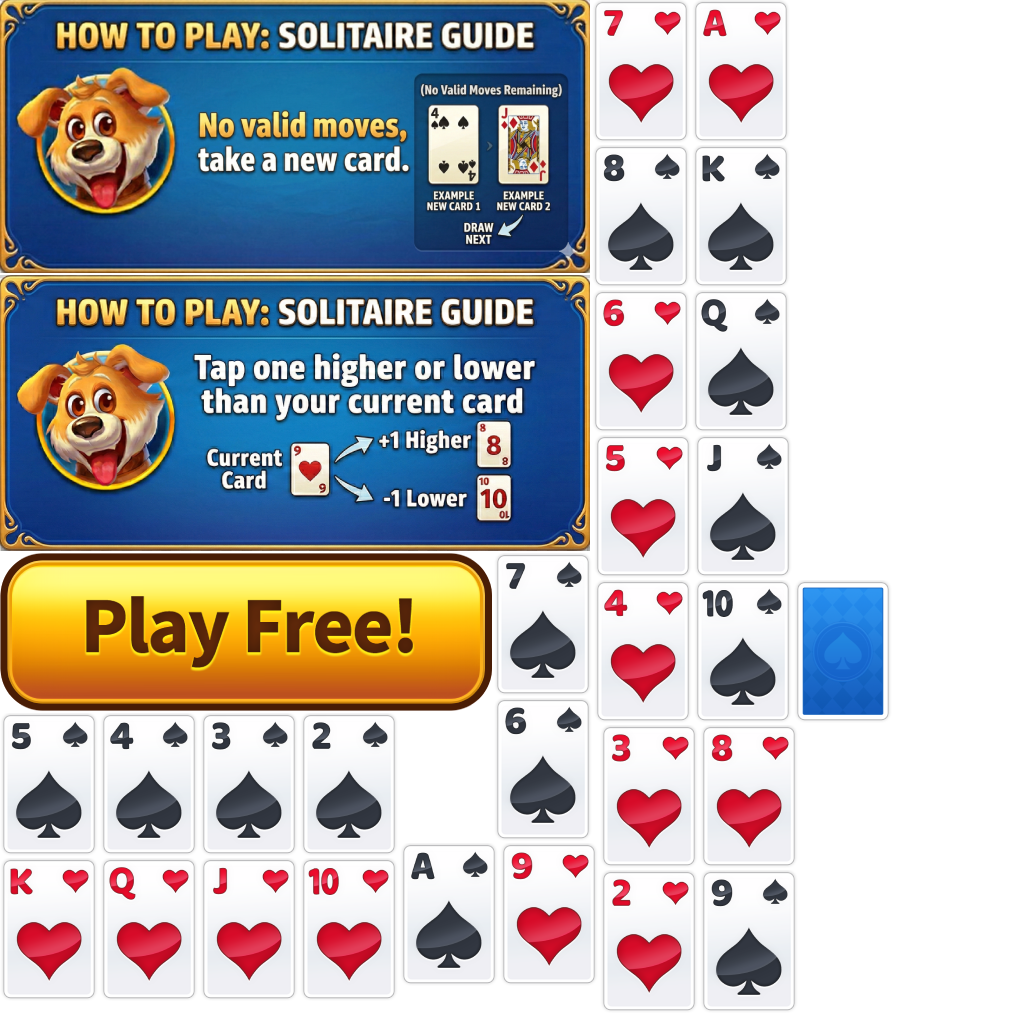
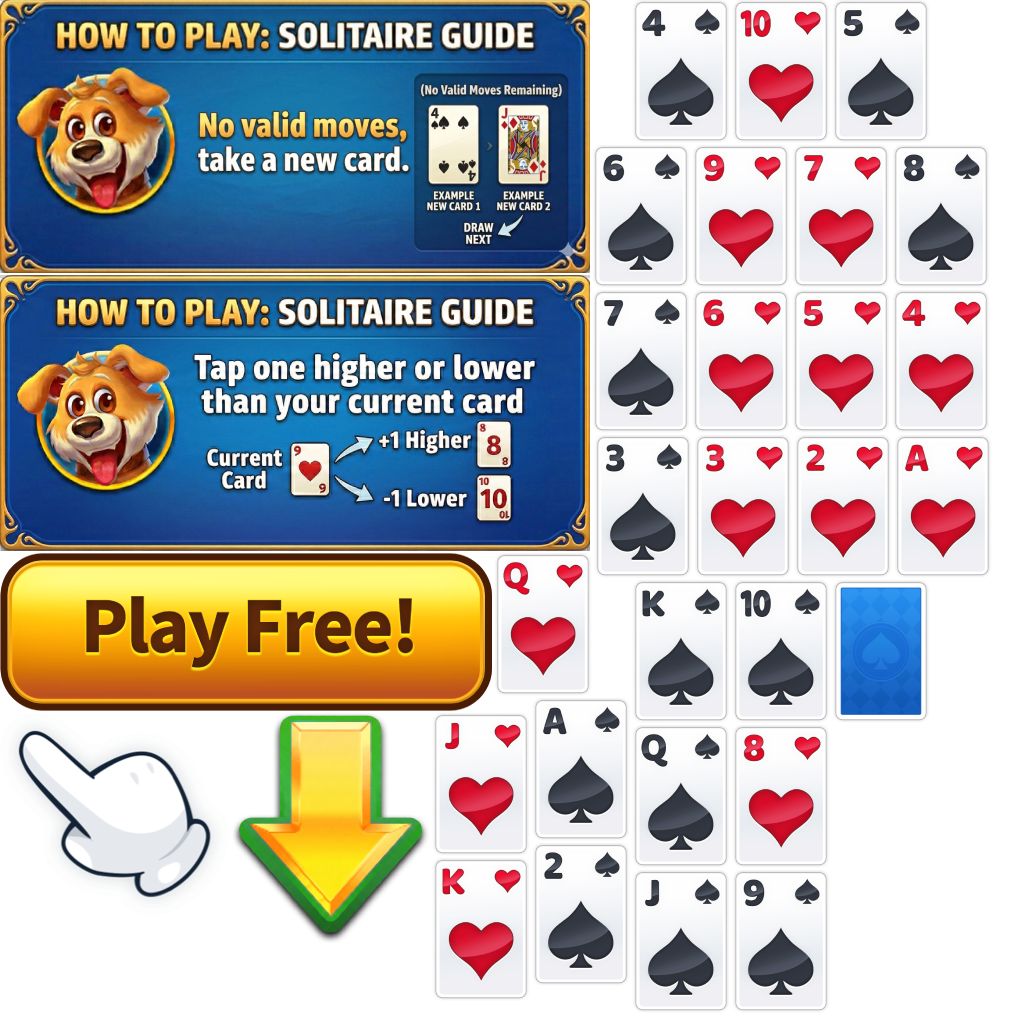
提交

diff --git a/assets/src/ui/GameWindow.ts b/assets/src/ui/GameWindow.ts
@@ -18,12 +18,16 @@ export class GameWindow extends BaseWindow {
 	private handValue: number = 0;
 	private _titleJitterTween: { stop: () => void } | null = null;
 	private _btnDownloadScaleTween: { stop: () => void } | null = null;
+	private _startCardScaleTween: { stop: () => void } | null = null;
+	private _imgFingerSwayTween: { stop: () => void } | null = null;
 	private _isFirstEliminate = true;
 	/** 连续 shuffle 导致僵局的次数，达到 2 时下一次 shuffle 必定可消除 */
 	private _consecutiveShuffleDeadlockCount = 0;
 	/** 第一次点击时开始计时 */
 	private _gameStartTime: number | null = null;
 	private _gameSuccess = false;
+	/** 有牌可消除时每 5 秒提示晃动的定时器，正确消除或 shuffle 后清除 */
+	private _hintShakeTimerId: ReturnType<typeof setTimeout> | null = null;
 	protected onInit(): void {
 			// 创建 comp_Game 实例并设置为窗口内容
 			this.compGame = UI_comp_Game.createInstance();
@@ -34,12 +38,15 @@ export class GameWindow extends BaseWindow {
 
 	/** 用于 window resize 的回调绑定，便于 removeEventListener */
 	private _boundOnWindowResize = () => this.onWindowResize();
+	/** 用于开始界面的全屏点击 */
+	private _boundOnStartScreenClick = () => this.onStartScreenClick();
 
 	protected onShown(): void {
 		super.onShown();
-		this.showCard();
-		this.compGame.m_btnDownload.on(fgui.Event.CLICK, this.onBtnDownloadClick, this);
-
+		this.compGame.m_imgTitle.visible = false;
+		this.compGame.m_btnDownload.visible = false;
+		this.compGame.m_compArrow.m_move.stop();
+		this.compGame.m_compArrow.visible = false;
 		this.updateBgVisibility();
 		if (!sys.isMobile) {
 			// Web 端 screen.on('window-resize') 有 bug 只触发一次，改用原生 resize
@@ -49,10 +56,64 @@ export class GameWindow extends BaseWindow {
 				screen.on('window-resize', this.onWindowResize, this);
 			}
 		}
+
+		this.compGame.m_comStart.visible = true;
+		this.compGame.m_comStart.m_startCard.m_typeLoader.url =
+			fgui.UIPackage.getItemURL("Package1", "heart_1");
+		this.playStartCardScaleLoop();
+		this.playImgFingerSwayLoop();
+		this.contentPane.on(fgui.Event.CLICK, this._boundOnStartScreenClick, this);
 	}
+
+	/** 开始界面点击：停止手指动画并隐藏、m_comStart 飞出、然后 startGame */
+	private onStartScreenClick() {
+		this.contentPane.off(fgui.Event.CLICK, this._boundOnStartScreenClick, this);
+
+		this._startCardScaleTween?.stop();
+		this._startCardScaleTween = null;
+		this._imgFingerSwayTween?.stop();
+		this._imgFingerSwayTween = null;
+		this.compGame.m_comStart.m_imgFinger.visible = false;
+
+		const comStart = this.compGame.m_comStart;
+		const startY = comStart.y;
+		const endY = -comStart.height - 150;
+
+		const state = { y: startY };
+		tween(state)
+			.to(0.3, { y: endY }, {
+				easing: "backIn",
+				onUpdate: () => {
+					comStart.y = state.y;
+				}
+			})
+			.call(() => this.startGame())
+			.start();
+	}
+
+	private startGame() {
+		this._startCardScaleTween?.stop();
+		this._startCardScaleTween = null;
+		this._imgFingerSwayTween?.stop();
+		this._imgFingerSwayTween = null;
+		this.contentPane.off(fgui.Event.CLICK, this._boundOnStartScreenClick, this);
+		this.compGame.m_comStart.visible = false;
+		this.compGame.m_comStart.m_imgFinger.visible = true;
+		this.compGame.m_comStart.y = 0;
+		this.showCard();
+		this.compGame.m_btnDownload.on(fgui.Event.CLICK, this.onBtnDownloadClick, this);
+	}
+
+
 
 	protected onHide(): void {
 		super.onHide();
+		this.stopHintShakeTimer();
+		this.contentPane.off(fgui.Event.CLICK, this._boundOnStartScreenClick, this);
+		this._startCardScaleTween?.stop();
+		this._startCardScaleTween = null;
+		this._imgFingerSwayTween?.stop();
+		this._imgFingerSwayTween = null;
 		if (!sys.isMobile) {
 			if (sys.isBrowser && typeof window !== 'undefined') {
 				window.removeEventListener('resize', this._boundOnWindowResize);
@@ -96,8 +157,6 @@ export class GameWindow extends BaseWindow {
 		this.cardMap = new Map<string, CardView>();
 		this.initHandCards();
 		this.initShuffleCards();
-		this.compGame.m_imgTitle.visible = false;
-		this.compGame.m_btnDownload.visible = false;
 
 		let index = 0;
 		for (const key in cardCfg) {
@@ -120,6 +179,7 @@ export class GameWindow extends BaseWindow {
 		this.playTitleSlideIn(cardAnimEndTime);
 		tween({}).delay(cardAnimEndTime).call(() => {
 			this.contentPane.touchable = true;
+			this.startHintShakeTimerIfNeeded();
 		}).start();
 	}
 
@@ -168,6 +228,7 @@ export class GameWindow extends BaseWindow {
 	/** 播放卡牌消除动画：抛物线飞到 handCard，结束后隐藏并刷新布局 */
 	private playCardEliminate(cardView: CardView) {
 		this.contentPane.touchable = false;
+		this.stopHintShakeTimer();
 
 		if (this._isFirstEliminate) {
 			this._isFirstEliminate = false;
@@ -208,9 +269,11 @@ export class GameWindow extends BaseWindow {
 				// 检查是否都不能消除，若僵局则切换到第二个引导并播放滑入+抖动动画（若第二个引导已居中则无视）
 				if (this.isNoEliminableCard() && this.compGame.m_ctrlGuide.selectedIndex !== 1) {
 					this.compGame.m_ctrlGuide.selectedIndex = 1;
+					this.showCompArrowAboveShuffle();
 					this.playTitleSlideIn(0);
 				}
 				this.contentPane.touchable = true;
+				this.startHintShakeTimerIfNeeded();
 			}
 		});
 	}
@@ -218,6 +281,8 @@ export class GameWindow extends BaseWindow {
 	/** 洗牌区 top 牌：翻面 + 平移到手牌，更新手牌数值 */
 	private playShuffleCardToHand(cardView: CardView) {
 		this.contentPane.touchable = false;
+		this.hideCompArrow();
+		this.stopHintShakeTimer();
 
 		const shuffleArea = this.compGame.m_shuffleArea;
 		const handCard = this.compGame.m_handCard;
@@ -263,13 +328,16 @@ export class GameWindow extends BaseWindow {
 			// 若僵局则切换到第二个引导（若第二个引导已居中则无视）
 			if (this.isNoEliminableCard() && this.compGame.m_ctrlGuide.selectedIndex !== 1) {
 				this.compGame.m_ctrlGuide.selectedIndex = 1;
+				this.showCompArrowAboveShuffle();
 				this.playTitleSlideIn(0);
 			}
 			// 第二个引导正在屏幕中间时，shuffle 后若查到有牌可消除，则移出引导
 			else if (this.compGame.m_ctrlGuide.selectedIndex === 1 && !this.isNoEliminableCard()) {
+				this.hideCompArrow();
 				this.playTitleSlideOut();
 			}
 			this.contentPane.touchable = true;
+			this.startHintShakeTimerIfNeeded();
 		});
 	}
 
@@ -360,8 +428,69 @@ export class GameWindow extends BaseWindow {
 			.call(() => {
 				this.compGame.m_ctrlGuide.selectedIndex = 0;
 				this.compGame.m_imgTitle.visible = false;
+				this.hideCompArrow();
 			})
 			.start();
+	}
+
+	/** 将 compArrow 定位到 shuffle 卡牌上方并显示、播放 move 动画（以最右边一张牌为标记位置） */
+	private showCompArrowAboveShuffle() {
+		if (this.shuffleCardViews.length === 0) return;
+		const arrow = this.compGame.m_compArrow;
+		const shuffleArea = this.compGame.m_shuffleArea;
+		const compGame = this.compGame;
+		const gap = 15;
+		const rightmostCard = this.shuffleCardViews[this.shuffleCardViews.length - 1];
+		const cardCenterX = rightmostCard.x;
+		const cardTopY = rightmostCard.y;
+		const global = shuffleArea.localToGlobal(cardCenterX, cardTopY);
+		const inComp = compGame.globalToLocal(global.x, global.y);
+		const arrowX = inComp.x - arrow.width / 2;
+		const arrowY = inComp.y - arrow.height - gap;
+		arrow.setPosition(arrowX, arrowY);
+		arrow.visible = true;
+		arrow.m_move.play(null, -1, 0);
+	}
+
+	/** 隐藏 compArrow 并停止 move 动画 */
+	private hideCompArrow() {
+		this.compGame.m_compArrow.m_move.stop();
+		this.compGame.m_compArrow.visible = false;
+	}
+
+	/** 停止 5 秒提示晃动计时 */
+	private stopHintShakeTimer() {
+		if (this._hintShakeTimerId != null) {
+			clearTimeout(this._hintShakeTimerId);
+			this._hintShakeTimerId = null;
+		}
+	}
+
+	/** 若有可消除牌则启动 5 秒提示计时，到点后晃动一张可消除牌（不播 error 音效），并每 5 秒重复直到正确消除或 shuffle */
+	private startHintShakeTimerIfNeeded() {
+		this.stopHintShakeTimer();
+		if (this._gameSuccess || this.isNoEliminableCard()) return;
+		this._hintShakeTimerId = setTimeout(() => this.onHintShakeTick(), 5000);
+	}
+
+	private onHintShakeTick() {
+		this._hintShakeTimerId = null;
+		if (this._gameSuccess || this.isNoEliminableCard()) return;
+		const card = this.getOneEliminableCard();
+		if (card) {
+			card.playShake();
+		}
+		this._hintShakeTimerId = setTimeout(() => this.onHintShakeTick(), 5000);
+	}
+
+	/** 任选一张当前可消除的主牌（正面、未消除），用于提示晃动 */
+	private getOneEliminableCard(): CardView | null {
+		for (const [, cardView] of this.cardMap) {
+			if (cardView.isClear) continue;
+			if (cardView.m_ctrlSide.selectedIndex !== 0) continue;
+			if (this.canEliminate(cardView.value)) return cardView;
+		}
+		return null;
 	}
 
 	/**
@@ -399,6 +528,8 @@ export class GameWindow extends BaseWindow {
 		this._titleJitterTween = null;
 		this.compGame.m_imgTitle.visible = false;
 		this.compGame.m_ctrlGuide.selectedIndex = 0;
+		this.hideCompArrow();
+		this.stopHintShakeTimer();
 
 		this.playBtnDownloadSlideIn();
 		this.contentPane.touchable = true;
@@ -450,6 +581,58 @@ export class GameWindow extends BaseWindow {
 				onUpdate: () => {
 					btn.setScale(state.scale, state.scale);
 					btn.setPosition(centerX, baseY);
+				}
+			})
+			.union()
+			.repeatForever()
+			.start();
+	}
+
+	/** m_comStart 中 imgFinger 的循环旋转晃动效果（慢速） */
+	private playImgFingerSwayLoop() {
+		const finger = this.compGame.m_comStart.m_imgFinger;
+		const amplitude = 12;
+		const duration = 1.2;
+
+		const state = { rotation: -amplitude };
+		finger.rotation = -amplitude;
+		this._imgFingerSwayTween = tween(state)
+			.to(duration, { rotation: amplitude }, {
+				easing: "sineInOut",
+				onUpdate: () => {
+					finger.rotation = state.rotation;
+				}
+			})
+			.to(duration, { rotation: -amplitude }, {
+				easing: "sineInOut",
+				onUpdate: () => {
+					finger.rotation = state.rotation;
+				}
+			})
+			.union()
+			.repeatForever()
+			.start();
+	}
+
+	/** m_comStart 中 startCard 的循环放大缩小动画 */
+	private playStartCardScaleLoop() {
+		const card = this.compGame.m_comStart.m_startCard;
+		const minScale = 1;
+		const maxScale = 1.15;
+		const duration = 0.5;
+
+		const state = { scale: minScale };
+		this._startCardScaleTween = tween(state)
+			.to(duration, { scale: maxScale }, {
+				easing: "sineInOut",
+				onUpdate: () => {
+					card.setScale(state.scale, state.scale);
+				}
+			})
+			.to(duration, { scale: minScale }, {
+				easing: "sineInOut",
+				onUpdate: () => {
+					card.setScale(state.scale, state.scale);
 				}
 			})
 			.union()

diff --git a/assets/src/fgui/Package1/UI_comp_Game.ts b/assets/src/fgui/Package1/UI_comp_Game.ts
@@ -3,6 +3,8 @@
 import * as fgui from "fairygui-cc";
 import UI_comp_Card from "./UI_comp_Card";
 import UI_comp_Shuffle from "./UI_comp_Shuffle";
+import UI_comp_Start from "./UI_comp_Start";
+import UI_comp_Arrow from "./UI_comp_Arrow";
 
 export default class UI_comp_Game extends fgui.GComponent {
 
@@ -15,6 +17,8 @@ export default class UI_comp_Game extends fgui.GComponent {
 	public m_shuffleArea:UI_comp_Shuffle;
 	public m_imgTitle:fgui.GLoader;
 	public m_btnDownload:fgui.GLoader;
+	public m_comStart:UI_comp_Start;
+	public m_compArrow:UI_comp_Arrow;
 	public static URL:string = "ui://1yx7aoelt01j2";
 
 	public static createInstance():UI_comp_Game {
@@ -31,5 +35,7 @@ export default class UI_comp_Game extends fgui.GComponent {
 		this.m_shuffleArea = <UI_comp_Shuffle>(this.getChild("shuffleArea"));
 		this.m_imgTitle = <fgui.GLoader>(this.getChild("imgTitle"));
 		this.m_btnDownload = <fgui.GLoader>(this.getChild("btnDownload"));
+		this.m_comStart = <UI_comp_Start>(this.getChild("comStart"));
+		this.m_compArrow = <UI_comp_Arrow>(this.getChild("compArrow"));
 	}
 }

diff --git a/assets/src/fgui/Package1/Package1Binder.ts b/assets/src/fgui/Package1/Package1Binder.ts
@@ -1,13 +1,17 @@
 /** This is an automatically generated class by FairyGUI. Please do not modify it. **/
 
+import UI_comp_Arrow from "./UI_comp_Arrow";
 import UI_comp_Shuffle from "./UI_comp_Shuffle";
+import UI_comp_Start from "./UI_comp_Start";
 import UI_comp_Card from "./UI_comp_Card";
 import UI_comp_Game from "./UI_comp_Game";
 import * as fgui from "fairygui-cc";
 
 export default class Package1Binder {
 	public static bindAll():void {
+		fgui.UIObjectFactory.setExtension(UI_comp_Arrow.URL, UI_comp_Arrow);
 		fgui.UIObjectFactory.setExtension(UI_comp_Shuffle.URL, UI_comp_Shuffle);
+		fgui.UIObjectFactory.setExtension(UI_comp_Start.URL, UI_comp_Start);
 		fgui.UIObjectFactory.setExtension(UI_comp_Card.URL, UI_comp_Card);
 		fgui.UIObjectFactory.setExtension(UI_comp_Game.URL, UI_comp_Game);
 	}

diff --git a/assets/src/fgui/Package1/UI_comp_Start.ts b/assets/src/fgui/Package1/UI_comp_Start.ts
@@ -1,0 +1,20 @@
+/** This is an automatically generated class by FairyGUI. Please do not modify it. **/
+
+import * as fgui from "fairygui-cc";
+import UI_comp_Card from "./UI_comp_Card";
+
+export default class UI_comp_Start extends fgui.GComponent {
+
+	public m_startCard:UI_comp_Card;
+	public m_imgFinger:fgui.GImage;
+	public static URL:string = "ui://1yx7aoelfjen1c";
+
+	public static createInstance():UI_comp_Start {
+		return <UI_comp_Start>(fgui.UIPackage.createObject("Package1", "comp_Start"));
+	}
+
+	protected onConstruct():void {
+		this.m_startCard = <UI_comp_Card>(this.getChild("startCard"));
+		this.m_imgFinger = <fgui.GImage>(this.getChild("imgFinger"));
+	}
+}

diff --git a/assets/src/fgui/Package1/UI_comp_Arrow.ts b/assets/src/fgui/Package1/UI_comp_Arrow.ts
@@ -1,0 +1,16 @@
+/** This is an automatically generated class by FairyGUI. Please do not modify it. **/
+
+import * as fgui from "fairygui-cc";
+export default class UI_comp_Arrow extends fgui.GComponent {
+
+	public m_move:fgui.Transition;
+	public static URL:string = "ui://1yx7aoel1149i1d";
+
+	public static createInstance():UI_comp_Arrow {
+		return <UI_comp_Arrow>(fgui.UIPackage.createObject("Package1", "comp_Arrow"));
+	}
+
+	protected onConstruct():void {
+		this.m_move = this.getTransition("move");
+	}
+}
